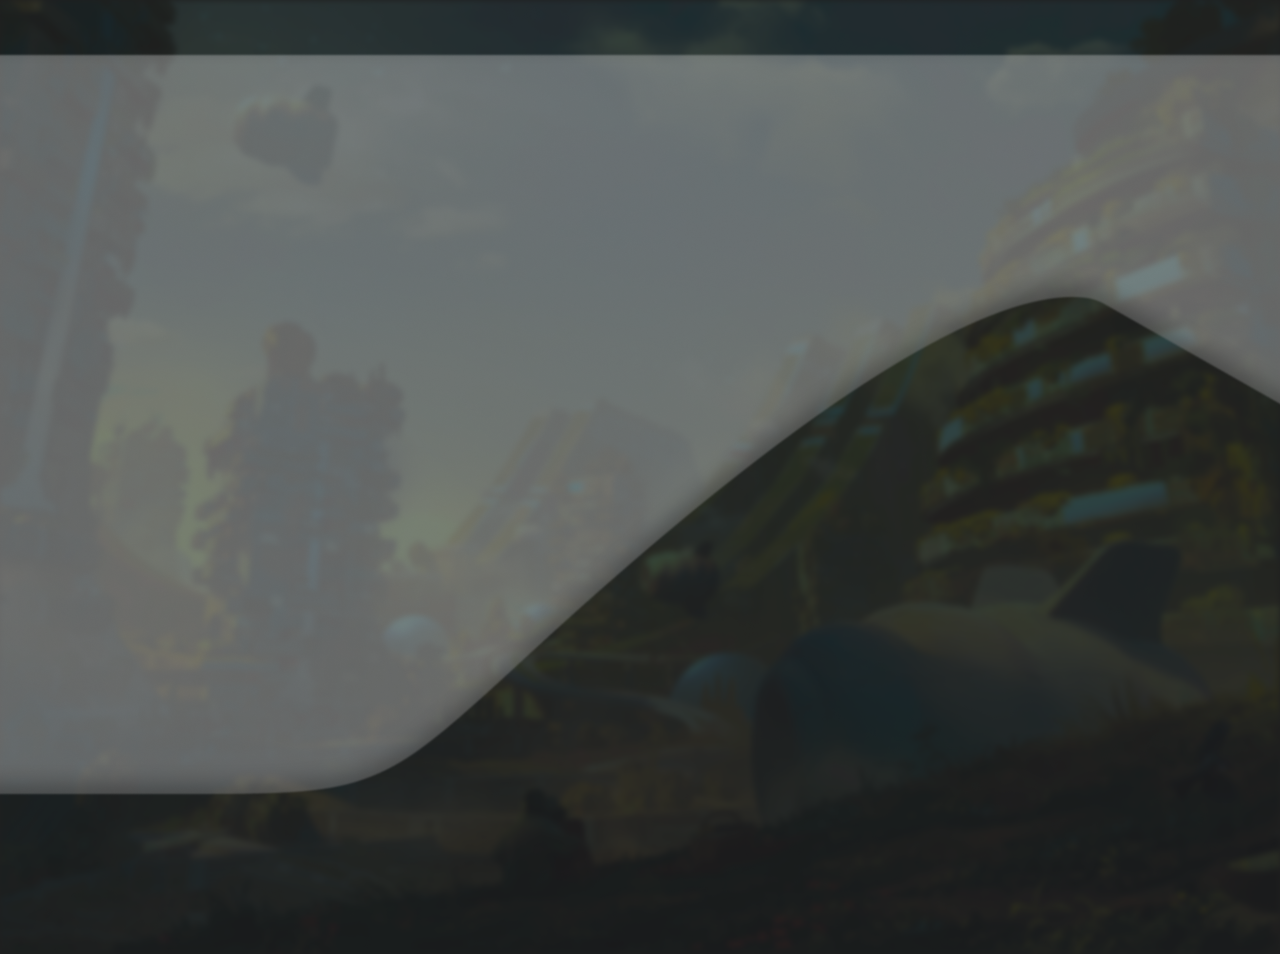
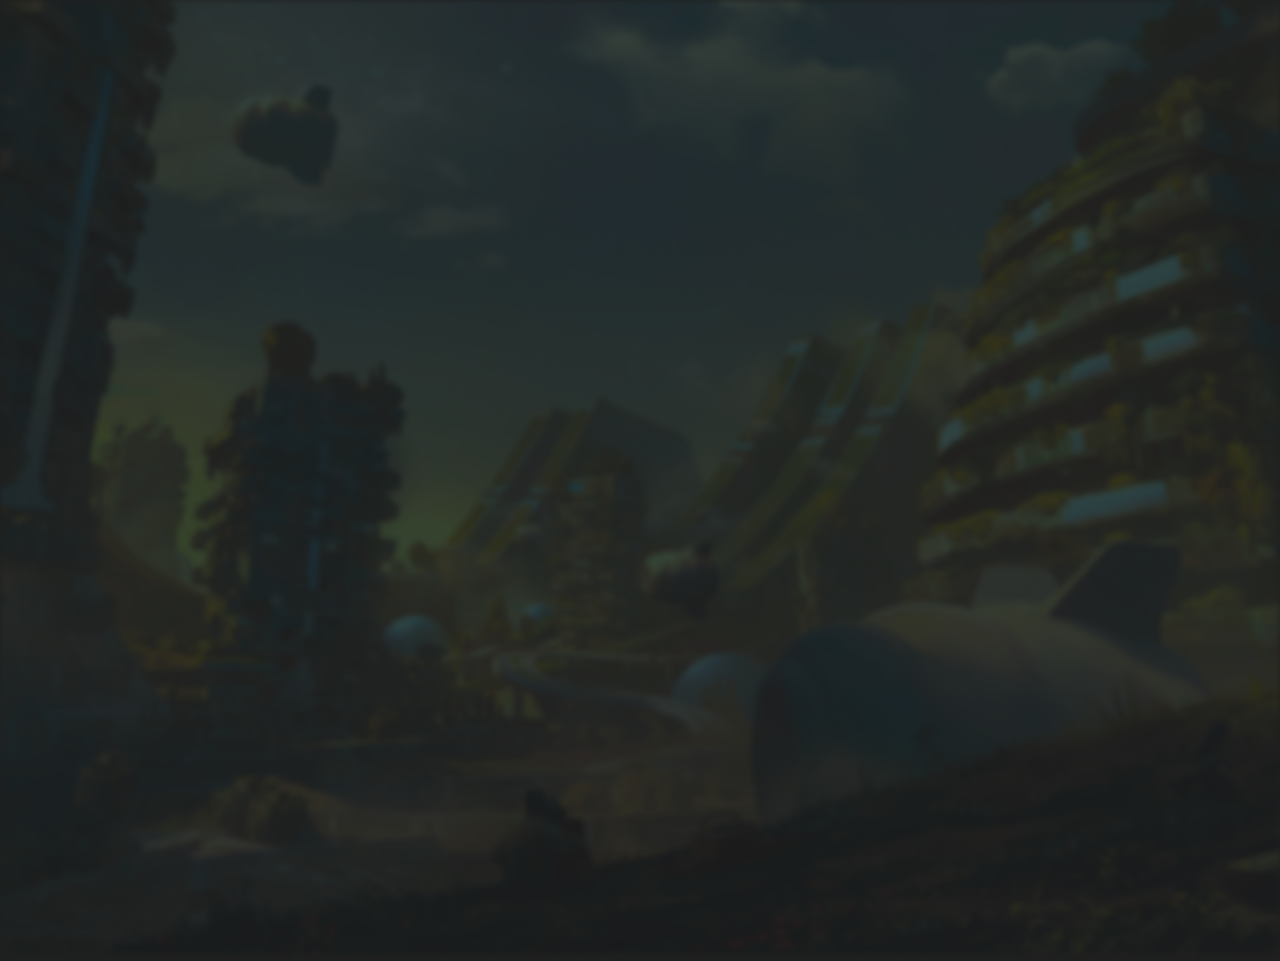
Landing Page for Mobile and Hero Animation

diff --git a/celesta20react/src/pages/HomePage.module.css b/celesta20react/src/pages/HomePage.module.css
@@ -3,34 +3,62 @@
 .landing_background_verdant {
 	background-image: url("../assets/img/LandingPageHeroBg.webp");
 	background-size: contain;
-	background-repeat: no-repeat;
+	/* background-repeat: no-repeat; */
+	background-position: 0 40px;
+	width: 100%;
+	height: 75vw;
+}
+
+.landing_background_odyssey {
+	width: 100%;
+	position: absolute;
+	top: 40px;
+	z-index: 0;
 }
 
 .landing_hero {
 	position: relative;
-	top: 10.390625vw;
+	top: max(10.390625vw, 110px);
 	left: 50%;
 	width: 47.265625vw;
 	height: auto;
+	animation-name: up-down;
+	animation-duration: 4s;
+	animation-delay: 2.5s;
+	animation-iteration-count: infinite;
+}
+
+@keyframes up-down {
+	0% {
+		transform: translateY(0px);
+	}
+	50% {
+		transform: translateY(min(40px, 5vw));
+	}
+	100% {
+		transform: translateY(0px);
+	}
 }
 
 .landing_title {
 	position: absolute;
 	left: 5.234375vw;
-	top: 19vw;
+	top: max(22vw, 150px);
 	font-family: "Montserrat";
 }
 
 .landing_title h1 {
 	color: white;
 	text-align: left;
-	font-size: 67.224px;
+	font-size: max(calc(100vw / 22), 35px);
 	letter-spacing: -1.158px;
 	font-weight: 700;
 }
 
 .landing_title h2 {
+	max-width: 75vw;
 	font-size: 20.524px;
+	font-size: max(calc(100vw / 62), 16px);
 	font-weight: 600;
 }
 
@@ -45,6 +73,7 @@
 	font-size: 16px;
 	margin-right: 20px;
 	font-weight: 600;
+	transition: all 0.5s ease;
 }
 
 .landing_login {
@@ -56,11 +85,54 @@
 	border-radius: 16px;
 	font-size: 16px;
 	font-weight: 600;
+	transition: all 0.5s ease;
 }
 
-.landing_register:hover, .landing_login:hover {
+.landing_register:hover,
+.landing_login:hover {
 	color: white;
 	background-color: transparent;
-	transition: all 0.5s ease;
 	transform: translateY(-5px);
+}
+
+@media screen and (max-width: 600px) {
+	.landing_hero {
+		top: calc(75vw + 50px);
+		left: unset;
+		margin: 0 20%;
+	}
+
+	.landing_background_verdant {
+		height: 150vw;
+	}
+
+	.landing_title {
+		top: max(15vw, 110px);
+	}
+
+	.landing_title h1 {
+		font-size: 28px;
+	}
+
+	.landing_title h2 {
+		max-width: 90vw;
+		font-size: 13px;
+		margin-bottom: 20px;
+	}
+
+	.landing_login, .landing_register {
+		padding: 8px 12px;
+		font-size: 13px;
+	}
+}
+
+@media screen and (max-width: 350px) {
+	.landing_title {
+		top: 120px;
+	}
+
+	.landing_title h2 {
+		max-width: 60vw;
+		margin-bottom: 21vw;
+	}
 }

diff --git a/celesta20react/src/pages/HomePage.js b/celesta20react/src/pages/HomePage.js
@@ -1,15 +1,28 @@
 import Footer from "components/Footer/Footer";
 import Navbar from "components/Navbars/Navbar";
-import React from "react";
+import React, { useState } from "react";
 import { Link } from "react-router-dom";
 import styles from "./HomePage.module.css";
 import heroImg from "../assets/img/LandingPageHero.webp";
+import heroBg from "../assets/img/LandingPageHeroBgLayer.webp";
+import heroBgAlt from "../assets/img/LandingPageHeroBgLayerAlt.webp";
 
 export default function HomePage() {
+	const [heroBgLayer, setHeroBgLayer] = useState(window.innerWidth > 600 ? heroBg : heroBgAlt);
+
+	{
+		/* For Dev Purposes only */
+		function onWidthChange() {
+			window.innerWidth > 600 ? setHeroBgLayer(heroBg) : setHeroBgLayer(heroBgAlt);
+		}
+		window.addEventListener("resize", onWidthChange);
+	}
+
 	return (
 		<div>
 			<Navbar />
 			<div className={styles.landing_background_verdant}>
+				<img className={styles.landing_background_odyssey} src={heroBgLayer} />
 				<img className={styles.landing_hero} src={heroImg} />
 				<div className={styles.landing_title}>
 					<h1>Celesta ‘23</h1>
@@ -24,8 +37,8 @@ export default function HomePage() {
 						</Link>
 					</div>
 				</div>
-				<Footer />
 			</div>
+			<Footer marginTop={0} />
 		</div>
 	);
 }

diff --git a/celesta20react/src/components/Footer/Footer.js b/celesta20react/src/components/Footer/Footer.js
@@ -1,10 +1,10 @@
 import React from "react";
 import styles from "./Footer.css";
 import { Link } from "react-router-dom";
-export default function Footer() {
+export default function Footer({marginTop}) {
 	return (
 		<>
-			<div className="Footer">
+			<div className="Footer" style={{marginTop : (marginTop != null ? marginTop : "")}}>
 				<div className="container">
 					<div className="row">
 						<div className="col-md-6 col-lg-5 col-12 ft-1">

diff --git a/celesta20react/src/components/PtsTable/pts.css b/celesta20react/src/components/PtsTable/pts.css
@@ -2,7 +2,7 @@
 
 /* START CSS VARIABLES */
 :root {
-    --body-background: #1c223b;
+    --body-background: #1f1f1f;
     --body-text: #ffffff;
     --container-background: #273349;
     --table-background: #1c223b;
